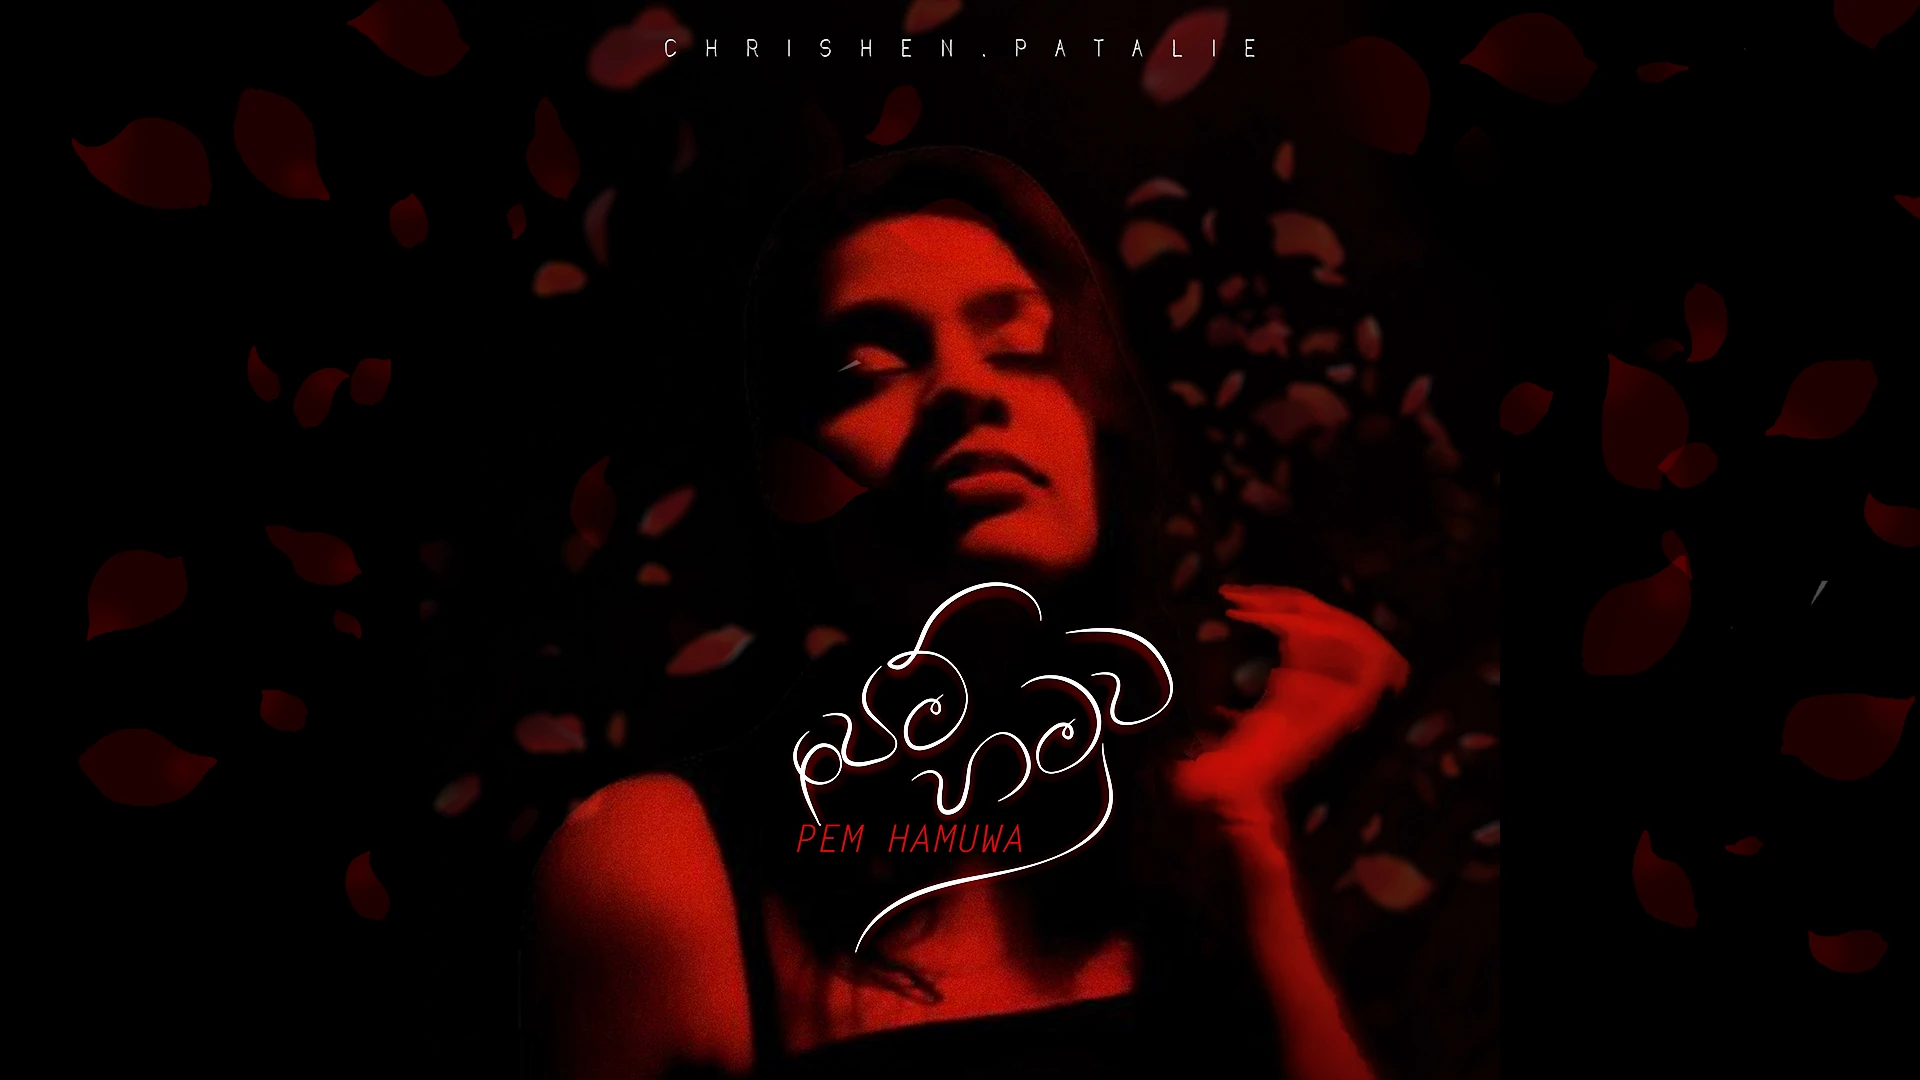
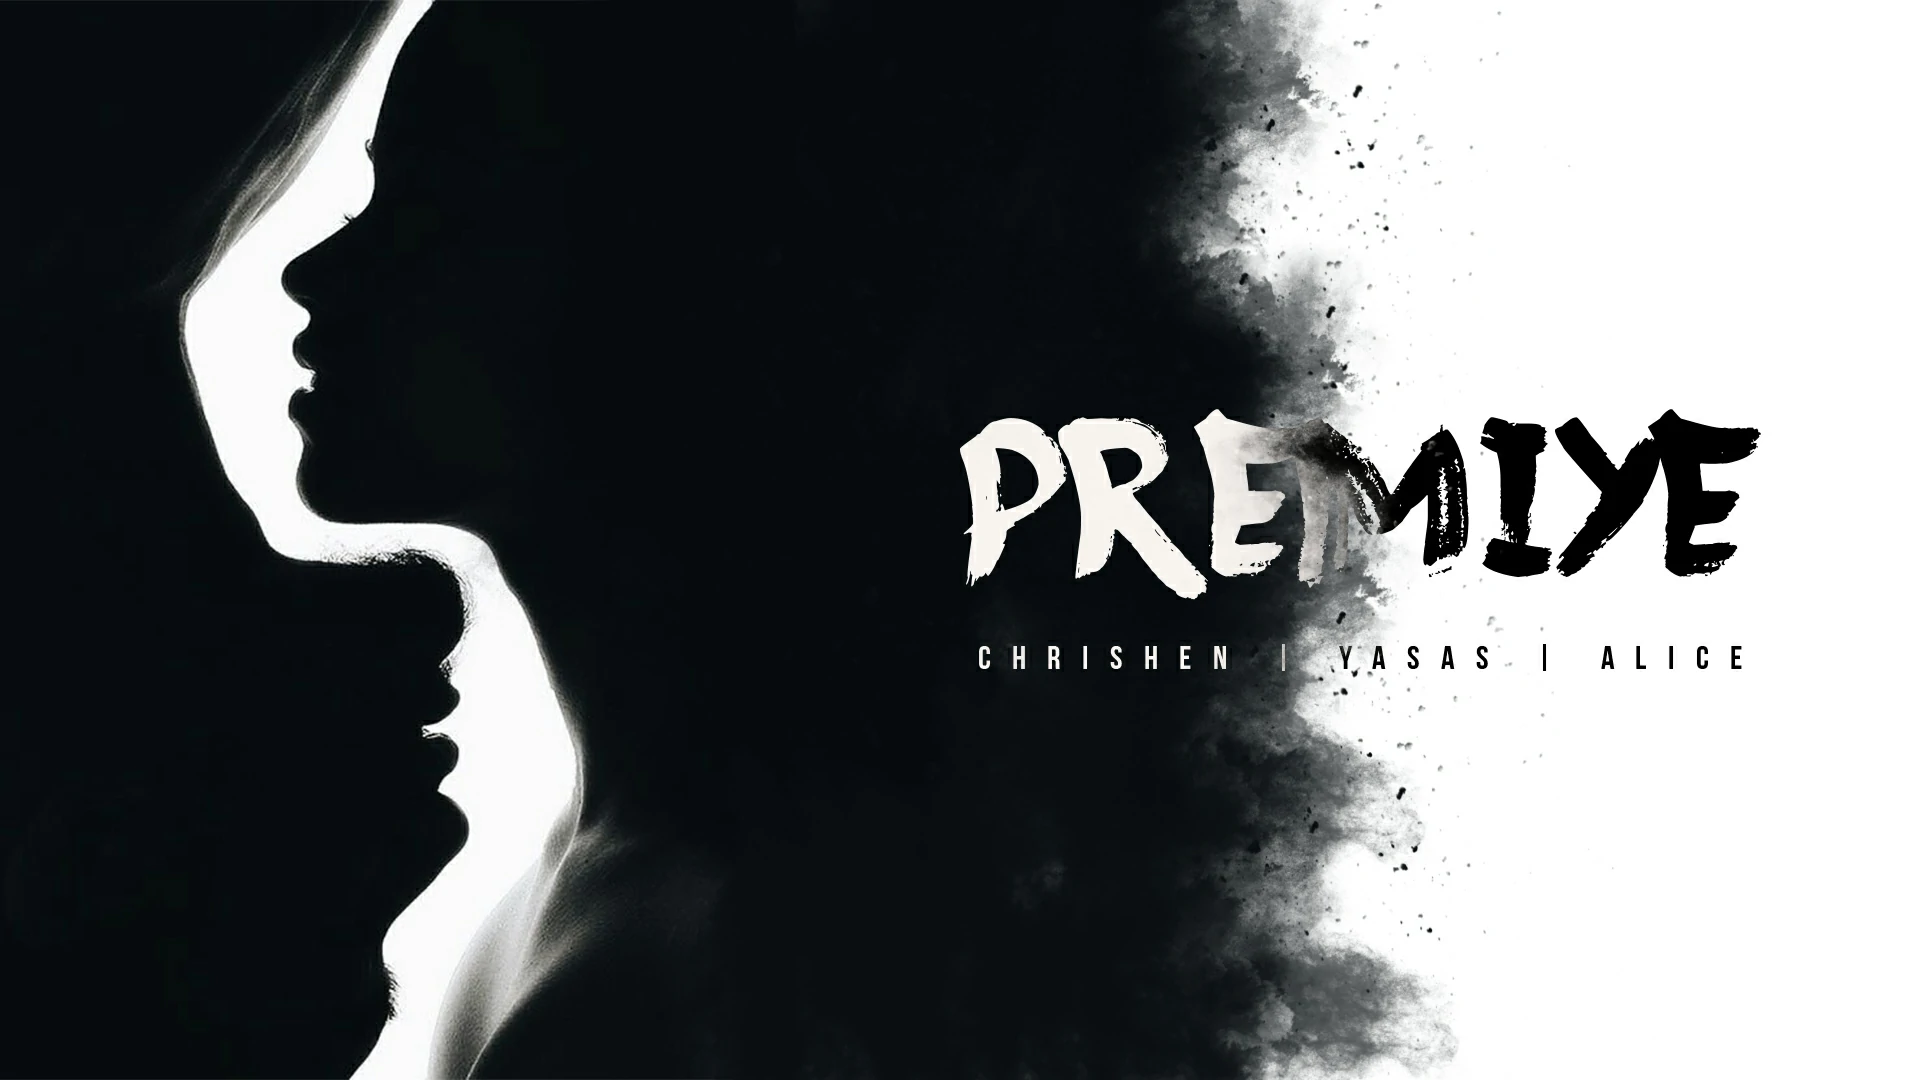
new release

diff --git a/src/Collaborate.jsx b/src/Collaborate.jsx
@@ -20,6 +20,7 @@ import img20 from "./assets/Colab/20.webp";
 import img21 from "./assets/Colab/21.webp";
 import img22 from "./assets/Colab/22.webp";
 import img23 from "./assets/Colab/23.webp";
+import img24 from "./assets/Colab/24.webp";
 import user from "./assets/user.webp";
 
 function Collaborate() {
@@ -232,7 +233,7 @@ function Collaborate() {
       img: img20,
       message:
         "The Urban Lyricist; a rapid, rhythmic delivery known for complex wordplay and street-smart commentary.",
-      songs: ["Radhawani Mashup"],
+      songs: ["Radhawani Mashup", "Premiye"],
       alt: "Image of Niwantha Yasas",
       loading: "lazy",
     },
@@ -261,6 +262,15 @@ function Collaborate() {
         "The Indie Pop Minimalist; a youthful, slightly flat vocal style delivered over simple, catchy, 8-bit inspired beats",
       songs: ["Seetha Maruthe Mashup"],
       alt: "Image of Mishel Fernando",
+      loading: "lazy",
+    },
+    {
+      name: "Alice On Shrooms",
+      img: img24,
+      message:
+        "A raw and versatile rap artist blending sharp lyrics with real-life stories. Known for confident delivery, modern beats, and an authentic sound that reflects hustle, culture, and emotion.",
+      songs: ["Premiyes"],
+      alt: "Image of Alice On Shrooms",
       loading: "lazy",
     },
     // Add more collaborators here

diff --git a/src/Video.jsx b/src/Video.jsx
@@ -9,7 +9,7 @@ function Video() {
             <h2>ALSO LISTEN TO</h2>
           </div>
           <div className="vid-button" data-aos="fade-up">
-            <button className="allrelease3">
+            {/*<button className="allrelease3">
               <a
                 href="https://open.spotify.com/track/6d915ul56vXr8tyy6taQ2Q?si=36752dd2f9864ebe"
                 target="_blank"
@@ -24,8 +24,11 @@ function Video() {
               >
                 LISTEN ON iTUNES
               </a>
-            </button>
-            <a href="https://www.youtube.com/@Chrishensilva" target="_blank">
+            </button>*/}
+            <a
+              href="https://youtu.be/4qL5DD5TJxo?si=Nu4VOjN8n3DZkhC4"
+              target="_blank"
+            >
               <button className="allrelease3">VIEW ON YOUTUBE</button>
             </a>
           </div>
@@ -33,7 +36,7 @@ function Video() {
             {/*<video src={vid1} className='link'></video>*/}
             <iframe
               className="link"
-              src="https://www.youtube.com/embed/qcFgKxCx8MM"
+              src="https://youtu.be/4qL5DD5TJxo?si=Nu4VOjN8n3DZkhC4"
               title="YouTube video"
               allowFullScreen
             ></iframe>

diff --git a/src/Featured.jsx b/src/Featured.jsx
@@ -26,22 +26,27 @@ function Featured() {
       <div className="featured">
         <div
           ref={bgRef}
-          alt="Image of Pem hamuwa"
+          alt="Image of Premiye"
           loading="lazy"
           className="featured-bg"
           style={{ backgroundImage: `url(${"featured"})` }}
         />
         <div className="title-container">
           <h1 className="title" data-aos="fade-up">
-            PEM HAMUWA
+            PREMIYE
           </h1>
-          <button
-            className="listennow"
-            data-aos="fade-up"
-            data-aos-duration="1200"
+          <a
+            href="https://youtu.be/4qL5DD5TJxo?si=Nu4VOjN8n3DZkhC4"
+            target="_blank"
           >
-            Listen Now
-          </button>
+            <button
+              className="listennow"
+              data-aos="fade-up"
+              data-aos-duration="1200"
+            >
+              Listen Now
+            </button>
+          </a>
         </div>
       </div>
 

diff --git a/src/Latest.jsx b/src/Latest.jsx
@@ -26,13 +26,6 @@ function Latest() {
           <div className="imagebox">
             <img
               className="imgsize"
-              src={image4}
-              alt="image of pem hamuwa"
-              loading="lazy"
-              data-aos="fade-right"
-            />
-            <img
-              className="imgsize"
               src={image1}
               alt="image of seetha maruthe"
               loading="lazy"
@@ -51,6 +44,13 @@ function Latest() {
               alt="image of aaley mal"
               loading="lazy"
               data-aos="fade-left"
+            />
+            <img
+              className="imgsize"
+              src={image4}
+              alt="image of pem hamuwa"
+              loading="lazy"
+              data-aos="fade-right"
             />
             <div className="box"></div>
           </div>
